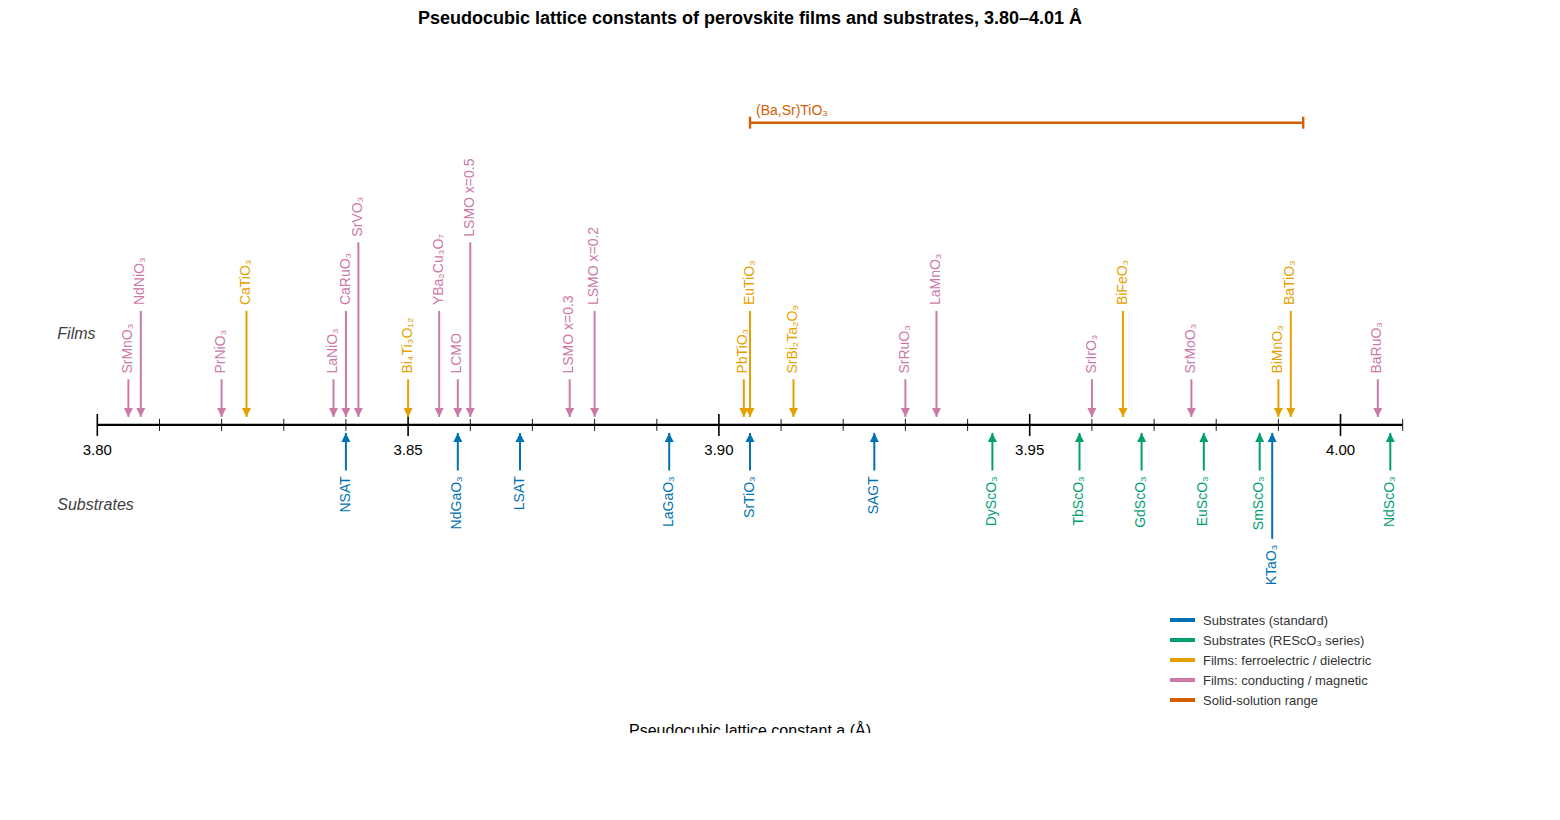
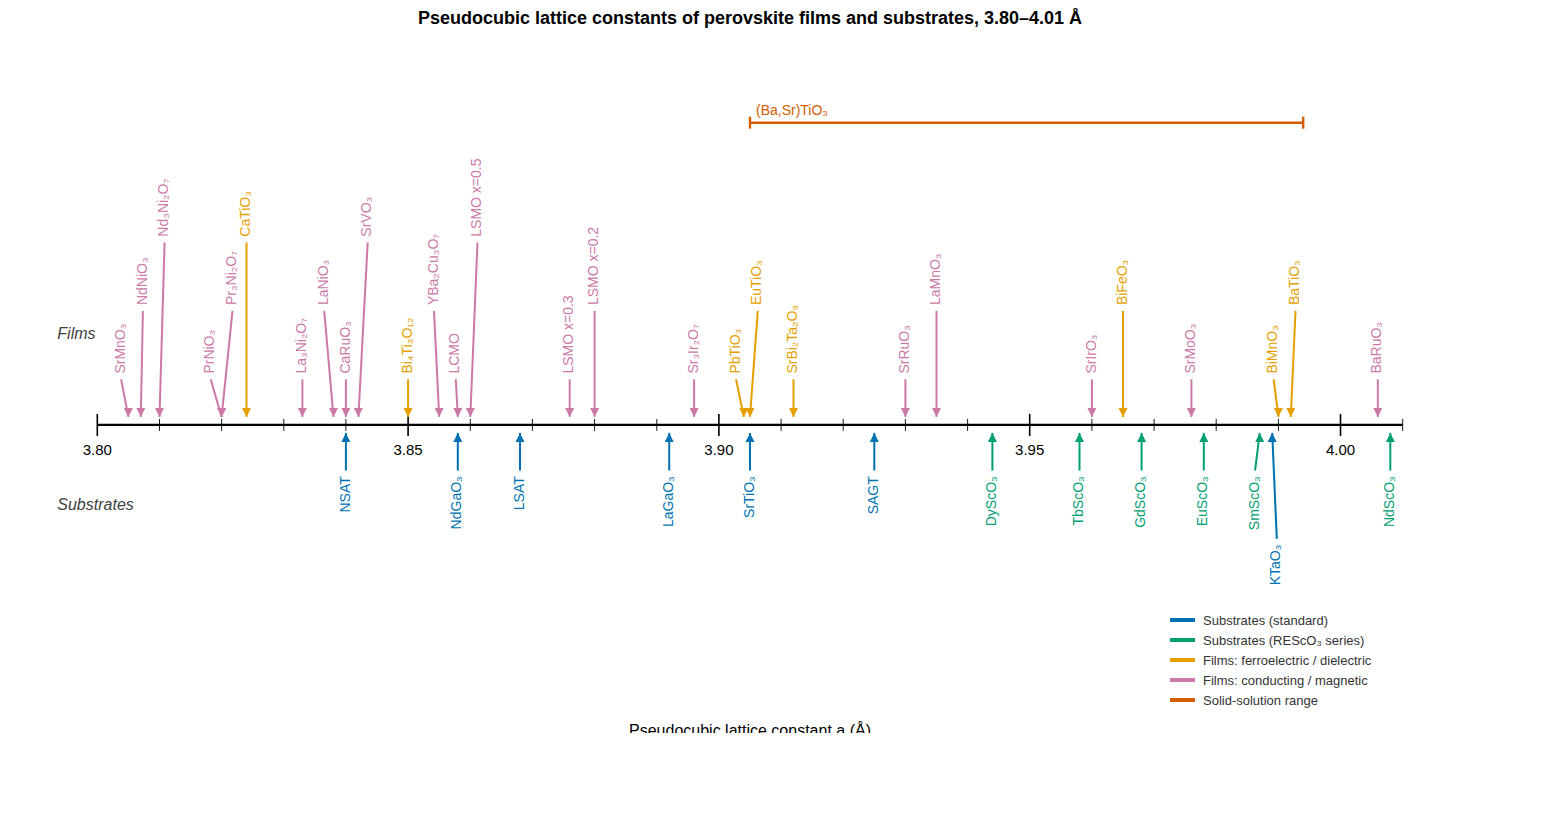
Add RP-327 nickelates and iridate; slant arrow tails in crowded spots
Adds the n=2 Ruddlesden-Popper bilayer phases La3Ni2O7 (3.833),
Pr3Ni2O7 (~3.82), Nd3Ni2O7 (~3.81) and Sr3Ir2O7 (3.896), plotted at
their in-plane pseudo-tetragonal lattice constant. PrNiO3 and Pr3Ni2O7
coincide at 3.820, which made one arrow strike through the other's
label; near-coincident entries (< 0.0035 A apart) now fan their arrow
tails around the group center, keeping the tip at the true value.

Claude-Session: https://claude.ai/code/session_01FDbrVKv6SLSyNMCsQdX7JN

diff --git a/lattice_number_line.py b/lattice_number_line.py
@@ -134,6 +134,13 @@ MATERIALS = [
     Material("BaRuO$_3$",               4.006, "film_cond", "cubic perovskite polymorph (high-pressure phase; 4H/9R ambient-stable)"),
     # Iridates
     Material("SrIrO$_3$",               3.96,  "film_cond", "orthorhombic perovskite polymorph, pseudocubic; semimetal"),
+    # Ruddlesden-Popper n=2 (327) bilayer phases -- the value plotted is the
+    # in-plane pseudo-tetragonal lattice constant (avg(a,b)/sqrt(2) of the
+    # orthorhombic cell, or tetragonal a), which is what matters for epitaxy
+    Material("La$_3$Ni$_2$O$_7$",       3.833, "film_cond", "RP-327, orthorhombic Amam (a=5.41, b=5.46), in-plane pseudo-tetragonal; SC under pressure/strain"),
+    Material("Pr$_3$Ni$_2$O$_7$",       3.82,  "film_cond", "RP-327, orthorhombic, in-plane (approx.; ~1% below La3Ni2O7)"),
+    Material("Nd$_3$Ni$_2$O$_7$",       3.81,  "film_cond", "RP-327, orthorhombic, in-plane (approx.; hard to stabilize in bulk)"),
+    Material("Sr$_3$Ir$_2$O$_7$",       3.896, "film_cond", "RP-327, tetragonal I4/mmm approx., in-plane a; spin-orbit Mott bilayer"),
     # Other conductors
     Material("SrVO$_3$",                3.842, "film_cond", "cubic; correlated metal / transparent conductor"),
     Material("YBa$_2$Cu$_3$O$_7$",      3.855, "film_cond", "avg of a = 3.82, b = 3.89"),
@@ -177,19 +184,43 @@ def assign_tiers(xs, min_sep=MIN_LABEL_SEP, n_tiers=4):
     return tiers
 
 
+def spread_tails(xs, thresh=0.0035):
+    """Slant arrow tails apart where entries (nearly) coincide in x.
+
+    xs: sorted x positions. Entries whose gap to the previous one is below
+    `thresh` are grouped, and each group's tails are fanned out around the
+    group center with `thresh` spacing (the arrow tip stays at the true x).
+    Returns the tail x position for each entry.
+    """
+    tails = list(xs)
+    i = 0
+    while i < len(xs):
+        j = i
+        while j + 1 < len(xs) and xs[j + 1] - xs[j] < thresh:
+            j += 1
+        if j > i:                      # group of j-i+1 near-coincident entries
+            center = sum(xs[i:j + 1]) / (j - i + 1)
+            for k in range(i, j + 1):
+                tails[k] = center + (k - i - (j - i) / 2) * thresh
+        i = j + 1
+    return tails
+
+
 def in_range(m, lo=RANGE[0], hi=RANGE[1]):
     return lo <= m.a <= hi
 
 
 def compute_layout():
-    """Split materials by side, sort, and assign tiers. Returns dict."""
+    """Split materials by side and sort; assign label tiers and tail x
+    positions. Returns {side: [(material, tier, x_tail), ...]}."""
     shown = [m for m in MATERIALS if in_range(m)]
     layout = {}
     for side in ("below", "above"):
         ms = sorted((m for m in shown
                      if CATEGORIES[m.category]["side"] == side),
                     key=lambda m: m.a)
-        layout[side] = list(zip(ms, assign_tiers([m.a for m in ms])))
+        xs = [m.a for m in ms]
+        layout[side] = list(zip(ms, assign_tiers(xs), spread_tails(xs)))
     return layout
 
 
@@ -225,13 +256,13 @@ def make_figure():
     # ---- Arrows + labels, staggered by tier ------------------------------
     base, step = 0.16, 0.24                          # arrow lengths per tier
     for side, sign in (("below", -1), ("above", +1)):
-        for m, tier in compute_layout()[side]:
+        for m, tier, x_tail in compute_layout()[side]:
             c = category_color(m.category)
             y_tip = sign * (base + tier * step)
-            ax.annotate("", xy=(m.a, 0), xytext=(m.a, y_tip), zorder=2,
+            ax.annotate("", xy=(m.a, 0), xytext=(x_tail, y_tip), zorder=2,
                         arrowprops=dict(arrowstyle="-|>", color=c, lw=1.6,
                                         mutation_scale=14, shrinkA=0, shrinkB=2))
-            ax.text(m.a, y_tip + sign * 0.02, m.label, rotation=90,
+            ax.text(x_tail, y_tip + sign * 0.02, m.label, rotation=90,
                     ha="center", va="bottom" if sign > 0 else "top",
                     fontsize=10.5, color=c, zorder=4)
 

diff --git a/README.md b/README.md
@@ -8,7 +8,11 @@ above; labeled marks every 0.05 Å. Beyond the materials in the original figure,
 it adds PLD-relevant conducting/magnetic oxides: nickelates (LaNiO₃, PrNiO₃,
 NdNiO₃), manganites across Sr doping (LaMnO₃, LSMO x = 0.2/0.3/0.5, SrMnO₃,
 plus LCMO), ruthenates (CaRuO₃, SrRuO₃, cubic BaRuO₃), the iridate SrIrO₃,
-titanates (CaTiO₃ alongside SrTiO₃/EuTiO₃/BaTiO₃/PbTiO₃), SrVO₃, and SrMoO₃.
+titanates (CaTiO₃ alongside SrTiO₃/EuTiO₃/BaTiO₃/PbTiO₃), SrVO₃, SrMoO₃, and
+the n = 2 Ruddlesden–Popper (327) bilayer phases La₃Ni₂O₇, Pr₃Ni₂O₇, Nd₃Ni₂O₇,
+and Sr₃Ir₂O₇ — for these layered orthorhombic/tetragonal phases the plotted
+value is the **in-plane pseudo-tetragonal lattice constant** (avg(a,b)/√2 of
+the orthorhombic cell), the number that matters for epitaxy.
 (The window ends at 4.01 rather than 4.00 so cubic BaRuO₃ at 4.006 Å and
 NdScO₃ at 4.008 Å stay on the line.)
 
